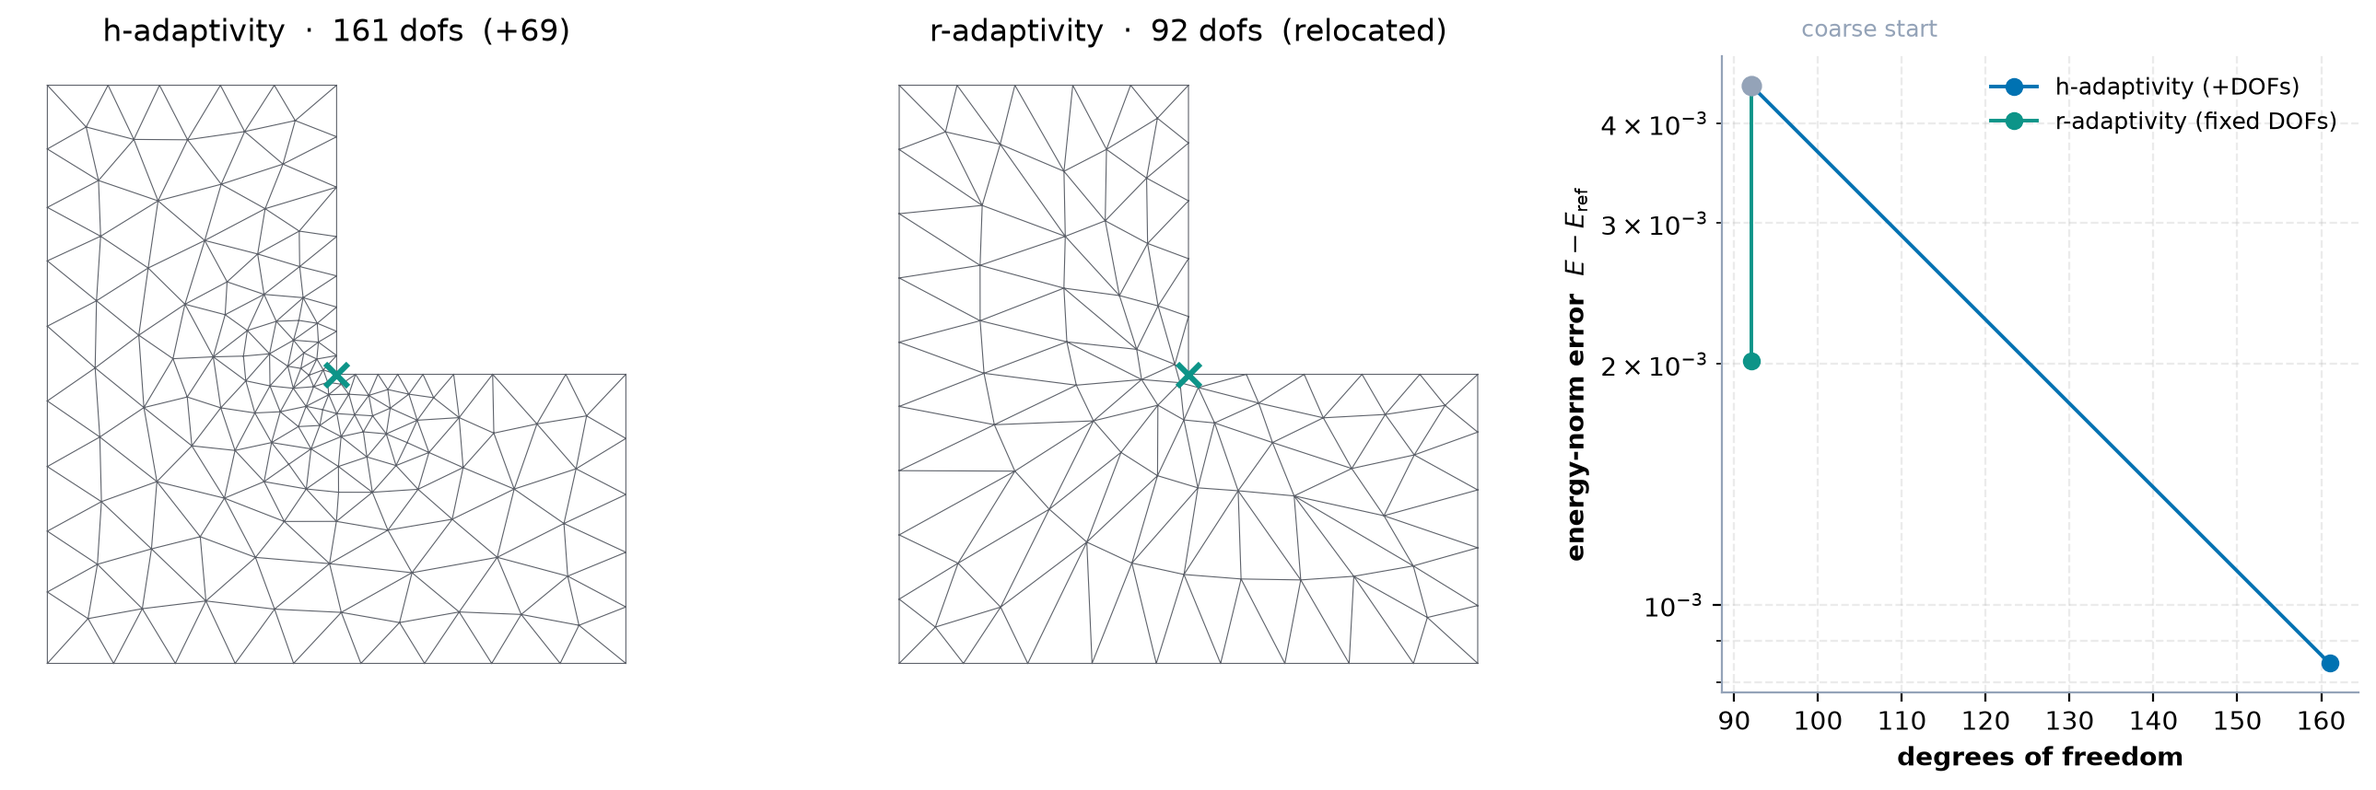
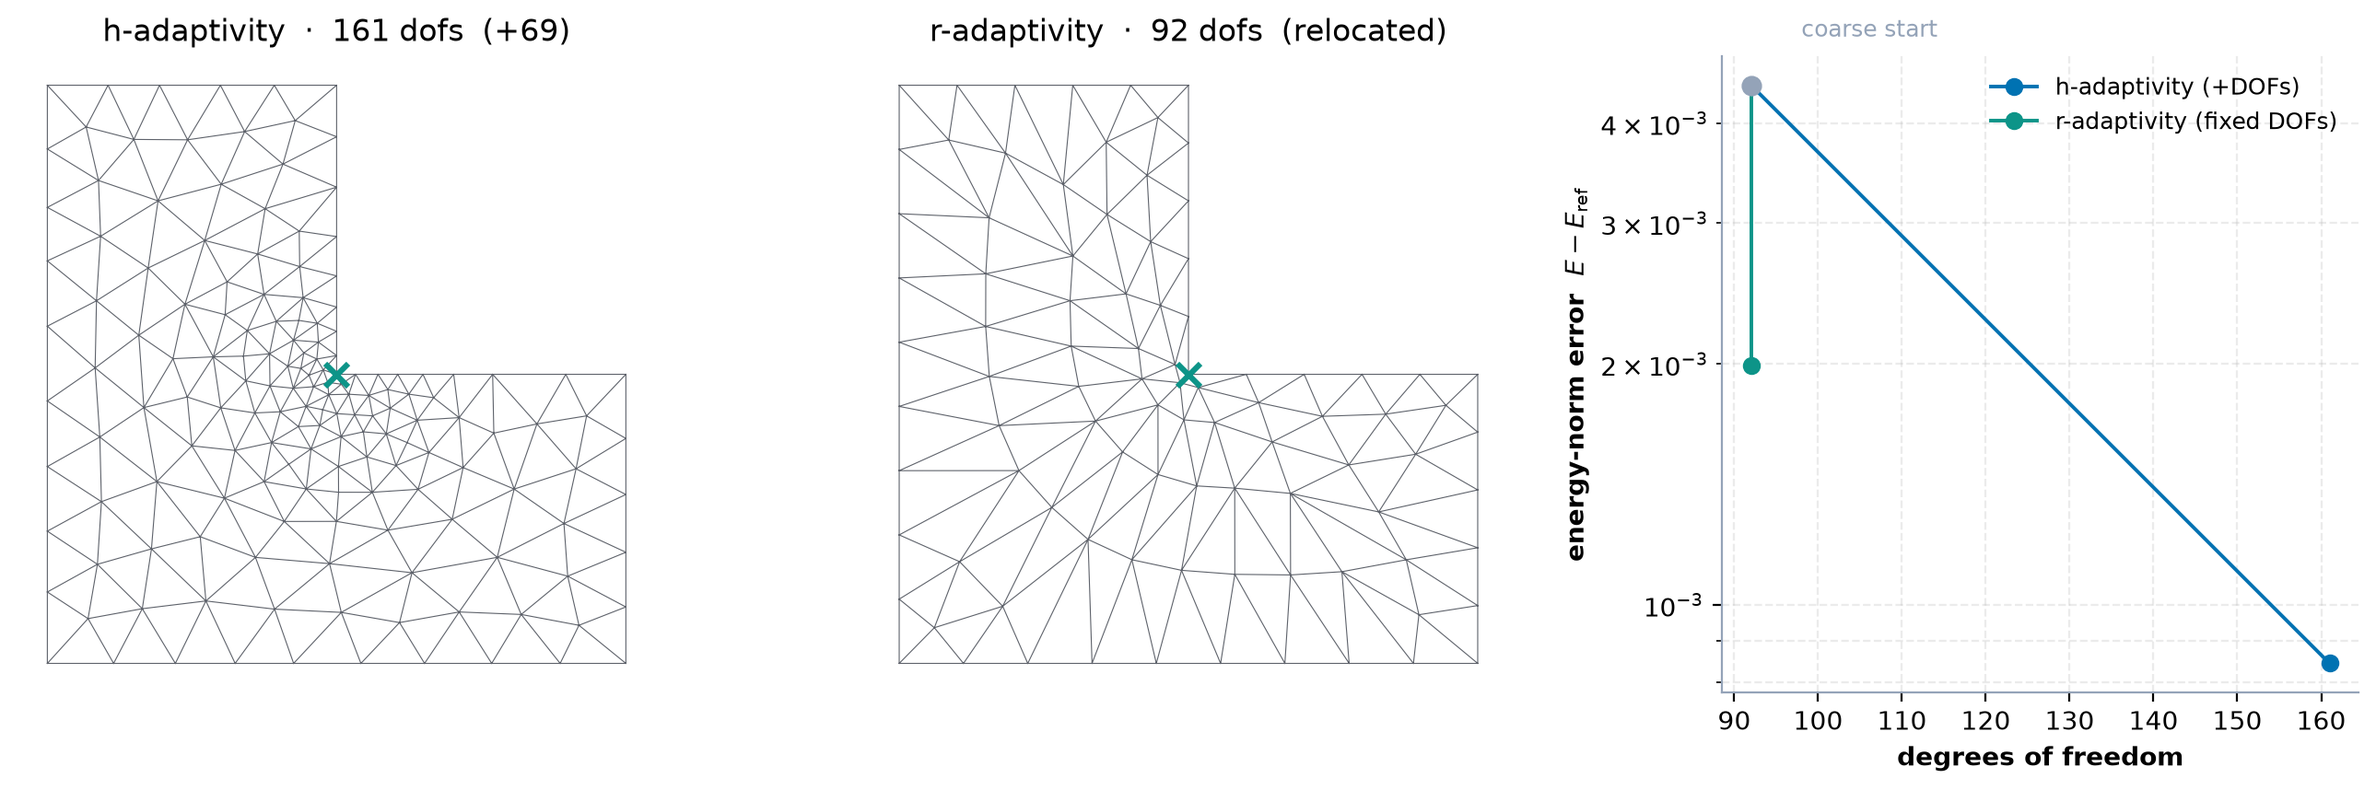
feat(fem): r-adaptivity via fem.solve(adapt=AdaptSpec(relocate=True))
Houses mesh relocation in the existing adapt= slot alongside h-refinement. AdaptSpec gains relocate=
(+ lr, quality_floor); run_adaptive_relocate descends a general Dirichlet-energy objective (Σ|∇u|²·vol,
dim-agnostic, scalar/vector) through the differentiable solve, with a backtracking detJ line search so
the fixed node set concentrates at features and the mesh never tangles — validity in the step control,
which a stock optimiser or an energy barrier alone cannot guarantee on a stiff problem (crux + adam/sgd/
ssbroyden + barrier all invert the L-shape corner; only backtracking is robust). Raises if relocate=True
with no .trainable() coordinate; mutates the domain to the relocated mesh and returns the solution there;
fails loud on nonlinear/transient/complex (planned extensions). The L-shape tutorial's hand-rolled loop
collapses to the one-liner. Tests: scalar + vector relocation reduce the energy at fixed DOF without
tangling, the no-coordinate error, and the nonlinear fail-loud guard.

Changed region(s): [[0.3722, 0.1212, 0.6204, 0.8182], [0.4653, 0.7576, 0.4963, 0.7879], [0.4033, 0.3939, 0.4343, 0.4242]]

diff --git a/jno/utils/solver/fem_adapt.py b/jno/utils/solver/fem_adapt.py
@@ -952,6 +952,19 @@ class AdaptSpec:
     hmax: float | None = None
     every: int = 5
     metric_field: int = 0
+    # --- r-adaptivity (mesh relocation) --------------------------------------------------------------
+    relocate: bool = False
+    """Switch ``FEM.solve(adapt=...)`` from h-refinement (add elements) to **r-adaptivity**: relocate the
+    mesh vertices tagged with :meth:`Variable.trainable` down the FE-energy gradient — *through the
+    differentiable solve* — at fixed connectivity and no new DOFs. Requires at least one coordinate tagged
+    ``domain.variable(region)[i].trainable()`` before ``jno.fem`` (else it raises). See
+    :func:`run_adaptive_relocate`. ``max_iters`` sets the number of relocation steps; ``lr`` the step size."""
+    quality_floor: float = 0.1
+    """Relocation only: a step is backtracked (halved) until no element's ``|det J|`` falls below this
+    fraction of the initial worst element — the mesh-validity line search that keeps the relocation from
+    tangling (a stock optimiser / a barrier alone cannot guarantee this on stiff problems)."""
+    lr: float = 3e-3
+    """Relocation only: base step size for the RMS-normalised energy-gradient descent."""
 
 
 # Consecutive rounds that must satisfy ``eps`` before the loop stops on convergence.
@@ -1072,6 +1085,137 @@ def run_adaptive_solve(fem: Any, spec: AdaptSpec, *, solve_fn: Any = None, **kwa
     fem.__dict__.update(cur.__dict__)
     fem.adapt_history = history
     return u
+
+
+def _dirichlet_energy_jax(pts, u_nodal, cells, dim):
+    """``Σ_cells |∇u|² · vol`` for a P1 field — differentiable in the vertices ``pts`` and the nodal values
+    ``u_nodal`` (shape ``(n_verts,)`` or ``(n_verts, n_comp)``). Field-agnostic (scalar / vector / a
+    primary field), 2-D triangle and 3-D tet: the relocation objective (concentrate nodes where the
+    solution's gradient is large). ``pts`` are the *moved* vertices, so this is the shape derivative's
+    integrand -- differentiating it w.r.t. the coordinate parameters is the r-adaptivity gradient."""
+    import jax.numpy as jnp
+
+    v = pts[cells]  # (n_cell, dim+1, dim)
+    u_nodal = u_nodal[:, None] if u_nodal.ndim == 1 else u_nodal
+    s = u_nodal[cells]  # (n_cell, dim+1, n_comp)
+    e = jnp.stack([v[:, i + 1] - v[:, 0] for i in range(dim)], axis=1)  # (n_cell, dim, dim): rows = edge vectors
+    du = jnp.stack([s[:, i + 1] - s[:, 0] for i in range(dim)], axis=1)  # (n_cell, dim, n_comp): du along each edge
+    grad = jnp.linalg.solve(e, du)  # (n_cell, dim, n_comp): ∇u, since du = E·∇u with E the edge matrix
+    vol = jnp.abs(jnp.linalg.det(e)) / (2.0 if dim == 2 else 6.0)
+    return jnp.sum(jnp.sum(grad**2, axis=(1, 2)) * vol)
+
+
+def run_adaptive_relocate(fem: Any, spec: AdaptSpec, *, solve_fn: Any = None, **kwargs: Any) -> np.ndarray:
+    """Drive ``FEM.solve(adapt=AdaptSpec(relocate=True, ...))`` -- **r-adaptivity** (mesh relocation).
+
+    Relocate the mesh vertices tagged with :meth:`Variable.trainable` down the FE Dirichlet-energy gradient
+    -- evaluated *through the differentiable solve* (``∂(solve)/∂X``) -- at **fixed connectivity** and no new
+    DOFs, with a **backtracking line search on ``det J``** so the mesh never tangles (a stock optimiser or a
+    barrier alone cannot guarantee validity on stiff problems -- the constraint must live in the step control).
+    Concentrates a *fixed* node set at solution features; the relocation companion of the h-refinement
+    :func:`run_adaptive_solve`.
+
+    ``spec.max_iters`` relocation steps, ``spec.lr`` step size, ``spec.quality_floor`` the validity bound.
+    Requires ≥1 coordinate tagged ``domain.variable(region)[i].trainable()`` before ``jno.fem`` (else raises).
+    Mutates ``fem`` / its domain to the relocated mesh (like the refinement loop) and returns the solution there;
+    ``fem.adapt_history`` traces the per-step energy.
+    """
+    import jax
+    import jax.numpy as jnp
+
+    import jno
+
+    from ..._fem import _infer_vec
+
+    dom = fem.domain
+    coord_specs = list(getattr(dom, "_trainable_coords", None) or [])
+    if not coord_specs:
+        raise ValueError(
+            "FEM.solve(adapt=AdaptSpec(relocate=True)) found no trainable mesh coordinates to move. Tag the "
+            "vertices to relocate with `x, y[, z] = domain.variable(region, split=True); x.trainable()` "
+            "(per component) BEFORE `jno.fem(...)` -- otherwise there is nothing to relocate."
+        )
+    mode = getattr(fem, "_mode", "linear")
+    if mode != "linear":
+        raise NotImplementedError(
+            f"AdaptSpec(relocate=True) currently supports steady *linear* problems (got mode={mode!r}); "
+            "nonlinear / transient / complex relocation are planned extensions (fail-loud until then)."
+        )
+
+    dim = int(dom.dimension)
+    cells, _ = _mesh_cells(dom)
+    cells_j = jnp.asarray(cells)
+    pts0 = np.asarray(dom.mesh.points)[:, :dim].copy()
+    pts0_j = jnp.asarray(pts0)
+    n_verts = pts0.shape[0]
+    vec0 = _infer_vec(fem._constraints) if getattr(fem, "_constraints", None) else 1
+    names = [sp["name"] for sp in coord_specs]
+
+    def _scatter(vals):
+        p = pts0_j
+        for sp in coord_specs:
+            p = p.at[jnp.asarray(sp["ids"]), sp["axis"]].set(vals[sp["name"]])
+        return p
+
+    def _energy(vals):
+        a_mat, b_vec = fem.operator.evaluate(vals)
+        u = jnp.linalg.solve(jnp.asarray(a_mat.todense()), jnp.asarray(b_vec).reshape(-1))
+        uf = u[: n_verts * vec0]
+        uf = uf.reshape(n_verts, vec0) if vec0 > 1 else uf
+        return _dirichlet_energy_jax(_scatter(vals), uf, cells_j, dim)
+
+    val_grad = jax.jit(jax.value_and_grad(lambda arrs: _energy(dict(zip(names, arrs)))))
+
+    def _min_detj(p):
+        vv = p[cells]
+        ee = np.stack([vv[:, i + 1] - vv[:, 0] for i in range(dim)], axis=1)
+        return float(np.min(np.linalg.det(ee.transpose(0, 2, 1))))
+
+    def _moved(arrs):
+        p = pts0.copy()
+        for i, sp in enumerate(coord_specs):
+            p[sp["ids"], sp["axis"]] = np.asarray(arrs[i])
+        return p
+
+    floor = spec.quality_floor * _min_detj(pts0)
+    arrs = [jnp.asarray(pts0[sp["ids"], sp["axis"]]) for sp in coord_specs]
+    msq = [jnp.zeros_like(a) for a in arrs]  # RMSProp running average (near-feature gradients dwarf the rest)
+    history: list[dict] = []
+    for it in range(spec.max_iters):
+        e, g = val_grad(arrs)
+        msq = [0.9 * m + 0.1 * gi**2 for m, gi in zip(msq, g)]
+        stepdir = [gi / jnp.sqrt(m + 1e-8) for gi, m in zip(g, msq)]
+        a = spec.lr
+        for _ in range(25):  # backtracking line search: shrink the step until no element inverts
+            cand = [ai - a * si for ai, si in zip(arrs, stepdir)]
+            if _min_detj(_moved(cand)) > floor:
+                break
+            a *= 0.5
+        else:
+            break  # at the mesh-quality limit -- no admissible step
+        arrs = cand
+        history.append({"step": it, "energy": float(e)})
+
+    final = _moved(arrs)
+    if _min_detj(final) <= 0.0:  # fail loud rather than hand back / re-solve on a tangled mesh
+        raise RuntimeError(
+            "FEM.solve(adapt=relocate): the mesh tangled (min det J <= 0). Lower AdaptSpec.lr or raise "
+            "AdaptSpec.quality_floor."
+        )
+
+    # apply the relocation to the domain (connectivity-preserving), drop the trainable tags, re-solve plainly
+    disp = np.zeros((n_verts, dim))
+    for i, sp in enumerate(coord_specs):
+        disp[sp["ids"], sp["axis"]] = np.asarray(arrs[i]) - pts0[sp["ids"], sp["axis"]]
+    move_mesh(dom, disp, copy=False, check=True)
+    dom._trainable_coords = []  # relocation consumed the tags; the moved vertices are now the geometry
+    for _name, _pred in list(getattr(dom, "_tag_predicates", {}).items()):
+        dom.tag(_name, _pred)
+    cur = jno.fem(fem._constraints, **fem._fem_kwargs)
+    u_final = np.asarray(cur.solve(solve_fn, **kwargs)).reshape(-1)
+    fem.__dict__.update(cur.__dict__)
+    fem.adapt_history = history
+    return u_final
 
 
 @dataclass

diff --git a/docs/tutorial_examples/08_fem_and_varpinns/adaptive_l_shape.py b/docs/tutorial_examples/08_fem_and_varpinns/adaptive_l_shape.py
@@ -108,73 +108,6 @@ def _min_detj(pts, cells):
     return float(np.min(a[:, 0] * b[:, 1] - a[:, 1] * b[:, 0]))
 
 
-def relocate(fem, d, e_ref, n_steps=60, lr=3e-3):
-    """Descend the FE-energy gradient to relocate the trainable interior vertices (differentiable r-adaptivity).
-
-    The built-in, general part is one line — ``jax.value_and_grad(energy)`` — exact only because
-    ``.trainable()`` made ``fem.solve()`` differentiable in the mesh. The rest is a compact optimiser with
-    the one ingredient a plain optimiser (``jno.core`` / adam) lacks here: **mesh-validity control**. Each
-    step takes a per-node RMS-normalised descent direction, then a *backtracking line search* halves the
-    step until no element is inverted — so the mesh never tangles.
-
-    NOTE — why backtracking and not just ``jno.core([energy + λ·barrier]).solve()``: on a *stiff* problem
-    like this reentrant corner the near-corner gradients are enormous, so a fixed-step optimiser (adam/sgd)
-    overshoots ``detJ = 0`` before a ``detJ`` log-barrier can react — the mesh inverts and the loss goes
-    ``nan``. A barrier needs a line search to be safe, and crux's optimisers do none; backtracking *checks*
-    validity every step, so it is robust. (A barrier alone is fine for milder relocation / co-design, where
-    the validity constraint is not binding — and ``.trainable()`` + the exact gradient is what lets a learned
-    monitor be trained through this via ``jno.core``, the ML path.) Fails loud if the mesh cannot stay valid.
-    """
-    cells = np.asarray(d.mesh.cells_dict["triangle"])
-    cj = jnp.asarray(cells)
-    pts0 = np.asarray(d.mesh.points)[:, :2].copy()
-    pts0_j = jnp.asarray(pts0)
-    (sx, sy) = (d._trainable_coords[0], d._trainable_coords[1])
-    ids, nx, ny = sx["ids"], sx["name"], sy["name"]
-
-    def energy(xy):
-        A, b = fem.operator.evaluate({nx: xy[0], ny: xy[1]})
-        u = jnp.linalg.solve(jnp.asarray(A.todense()), jnp.asarray(b).reshape(-1))
-        pts = pts0_j.at[ids, 0].set(xy[0]).at[ids, 1].set(xy[1])
-        return dirichlet_energy(pts, u, cj)
-
-    val_grad = jax.jit(jax.value_and_grad(energy))
-    floor = 0.1 * _min_detj(pts0, cells)  # never let any cell fall below 10% of the initial worst quality
-
-    def moved(xy):
-        p = pts0.copy()
-        p[ids, 0], p[ids, 1] = np.asarray(xy[0]), np.asarray(xy[1])
-        return p
-
-    xy = (pts0_j[ids, 0], pts0_j[ids, 1])
-    msq = (jnp.zeros_like(xy[0]), jnp.zeros_like(xy[1]))  # RMSProp running average of squared gradient
-    hist = [float(energy(xy)) - e_ref]
-    for _ in range(n_steps):
-        e, g = val_grad(xy)
-        msq = (0.9 * msq[0] + 0.1 * g[0] ** 2, 0.9 * msq[1] + 0.1 * g[1] ** 2)
-        step = (g[0] / jnp.sqrt(msq[0] + 1e-8), g[1] / jnp.sqrt(msq[1] + 1e-8))
-        a = lr
-        for _ in range(20):  # backtracking on mesh validity
-            cand = (xy[0] - a * step[0], xy[1] - a * step[1])
-            if _min_detj(moved(cand), cells) > floor:
-                break
-            a *= 0.5
-        else:
-            break  # no admissible step -> at the mesh-quality limit
-        xy = cand
-        hist.append(float(e) - e_ref)
-    # fail-loud tangle guard: never hand back an inverted mesh (a silent tangle would give nan solves later)
-    result = moved(xy)
-    if _min_detj(result, cells) <= 0.0:
-        raise RuntimeError(
-            "relocate: the mesh tangled — an element inverted (min detJ <= 0). Lower `lr`, raise the quality "
-            "floor, or take fewer steps; the coordinate gradient is exact but the optimiser must stay valid."
-        )
-    if len(hist) == 1:
-        raise RuntimeError("relocate: could not take a single valid step from the start mesh (lr too large?).")
-    return result, np.array(hist)
-
-
 # --- reference energy (fine mesh) and a common coarse starting mesh ---------------------------------------
 d_ref, fem_ref = build(0.03)
 E_REF = float(
@@ -198,14 +131,18 @@ pts_h, tris_h = np.asarray(d_h.mesh.points)[:, :2], np.asarray(d_h.mesh.cells_di
 E_h = float(dirichlet_energy(jnp.asarray(pts_h), jnp.asarray(sol_h), jnp.asarray(tris_h)))
 n_h = len(sol_h)
 
-# --- (2) r-adaptivity: `.trainable()` coordinates + the differentiable solve ------------------------------
-# `build(movable=True)` calls `xm.trainable()` / `ym.trainable()` on the interior coordinates (see build()),
-# so `fem_r.solve()` is now differentiable w.r.t. the mesh. The exact shape gradient ∂E/∂X is therefore just
-# `jax.grad` — no adjoint code — and `relocate` simply descends it (no new DOFs, fixed connectivity).
+# --- (2) r-adaptivity: the built-in relocation driver, ONE call -------------------------------------------
+# `build(movable=True)` tags the interior vertices with `.trainable()` (see build()), so the r-adaptivity API
+# is the SAME slot as h-adaptivity: `fem.solve(adapt=AdaptSpec(relocate=True))`. Internally it descends the
+# FE energy *through the differentiable solve* (∂E/∂X, exact) with a **backtracking mesh-validity line search**
+# — so the fixed node set concentrates at the corner and the mesh never tangles (validity lives in the step
+# control, which a stock optimiser / barrier can't guarantee on a stiff problem). It returns the solution on
+# the relocated mesh; `d_r`/`fem_r` now refer to it. Raises if no coordinate was `.trainable()`-tagged.
 d_r, fem_r = build(0.12, movable=True)
-pts_r, hist_r = relocate(fem_r, d_r, E_REF)
+sol_r = np.asarray(fem_r.solve(adapt=AdaptSpec(relocate=True, max_iters=60, lr=3e-3, quality_floor=0.1))).reshape(-1)
+pts_r = np.asarray(d_r.mesh.points)[:, :2]
 tris_r = np.asarray(d_r.mesh.cells_dict["triangle"])
-E_r = float(hist_r[-1] + E_REF)
+E_r = float(dirichlet_energy(jnp.asarray(pts_r), jnp.asarray(sol_r), jnp.asarray(tris_r)))
 
 print(f"energy-norm error  (E - E_ref),  E_ref = {E_REF:.4f}")
 print(f"  coarse start   : {E0 - E_REF:.3e}   ({n0} dofs)")

diff --git a/tests/test_fem_relocate.py b/tests/test_fem_relocate.py
@@ -1,0 +1,106 @@
+"""r-adaptivity via the adapt slot — ``FEM.solve(adapt=AdaptSpec(relocate=True))``.
+
+Relocates the mesh vertices tagged with :meth:`Variable.trainable` down the FE-energy gradient (through the
+differentiable solve) with a backtracking mesh-validity line search — the built-in companion of h-refinement
+(``run_adaptive_relocate``). Checks: it reduces the objective at **fixed DOF** without tangling (scalar +
+vector), demands at least one ``.trainable()`` coordinate, and fails loud on the not-yet-supported modes.
+"""
+
+import jax
+import numpy as np
+import pytest
+
+import jno
+import jno.jnp_ops as J
+from jno.utils.solver.fem_adapt import AdaptSpec
+
+
+@pytest.fixture(autouse=True)
+def _x64():
+    prev = jax.config.jax_enable_x64
+    jax.config.update("jax_enable_x64", True)
+    try:
+        yield
+    finally:
+        jax.config.update("jax_enable_x64", prev)
+
+
+def _min_detj(pts, cells):
+    v = pts[cells]
+    a, b = v[:, 1] - v[:, 0], v[:, 2] - v[:, 0]
+    return float(np.min(a[:, 0] * b[:, 1] - a[:, 1] * b[:, 0]))
+
+
+def _peak_scalar(size=0.14, movable=True):
+    """Poisson with a sharp off-center peak source; interior nodes (a central box) tagged trainable."""
+    d = jno.Shape.rect(0.0, 0.0, 1.0, 1.0, size=size).domain()
+    u, phi = d.fem_symbols()
+    xi, yi, _ = d.variable("interior", split=True)
+    xb, yb, _ = d.variable("boundary", split=True)
+    if movable:
+        xm, ym, _ = d.variable("mov", where=lambda x, y: (x > 0.2) & (x < 0.8) & (y > 0.2) & (y < 0.8), split=True)
+        xm.trainable(name="ix")
+        ym.trainable(name="iy")
+    ui, vi = u.bind(x=xi, y=yi), phi.bind(x=xi, y=yi)
+    f = J.exp(-40.0 * ((xi - 0.62) ** 2 + (yi - 0.35) ** 2))
+    return d, jno.fem([ui.x * vi.x + ui.y * vi.y - f * vi, u(xb, yb) - 0.0], quad_degree=3)
+
+
+def test_relocate_reduces_energy_and_stays_valid():
+    d, fem = _peak_scalar()
+    pts0 = np.asarray(d.mesh.points)[:, :2].copy()
+    n0 = len(pts0)
+    sol = np.asarray(fem.solve(adapt=AdaptSpec(relocate=True, max_iters=40, lr=3e-3, quality_floor=0.1))).reshape(-1)
+    hist = fem.adapt_history
+    cells = np.asarray(fem.domain.mesh.cells_dict["triangle"])
+    pts_r = np.asarray(fem.domain.mesh.points)[:, :2]
+
+    assert len(hist) >= 5, "relocation should take several steps"
+    assert hist[-1]["energy"] < hist[0]["energy"], "relocation must reduce the FE energy"
+    assert len(pts_r) == n0 and sol.shape[0] == n0, "r-adaptivity adds no DOFs (fixed connectivity)"
+    assert _min_detj(pts_r, cells) > 0.0, "the relocated mesh must stay valid (no inverted elements)"
+    assert np.linalg.norm(pts_r - pts0) > 1e-3, "the interior vertices should actually move toward the feature"
+
+
+def test_relocate_requires_trainable_coordinates():
+    _, fem = _peak_scalar(movable=False)
+    with pytest.raises(ValueError, match="no trainable mesh coordinates"):
+        fem.solve(adapt=AdaptSpec(relocate=True))
+
+
+def test_relocate_vector_field():
+    """Generality: a vector problem relocates too (the energy objective sums over components)."""
+    d = jno.Shape.rect(0.0, 0.0, 1.0, 1.0, size=0.16).domain()
+    u, phi = d.fem_symbols(value_shape=(2,))
+    xi, yi, _ = d.variable("interior", split=True)
+    xb, yb, _ = d.variable("boundary", split=True)
+    xm, ym, _ = d.variable("mov", where=lambda x, y: (x > 0.2) & (x < 0.8) & (y > 0.2) & (y < 0.8), split=True)
+    xm.trainable(name="ix")
+    ym.trainable(name="iy")
+    vi = phi.bind(x=xi, y=yi)
+    f = 2.0 * (xi * (1 - xi) + yi * (1 - yi))
+    weak = jno.np.inner(jno.np.grad(u, [xi, yi]), jno.np.grad(phi, [xi, yi]), n_contract=2) - (
+        f * vi.component(0) + 0.5 * f * vi.component(1)
+    )
+    fem = jno.fem([weak, u(xb, yb) - 0.0])
+    n0 = len(d.mesh.points)
+    sol = np.asarray(fem.solve(adapt=AdaptSpec(relocate=True, max_iters=25, lr=2e-3))).reshape(-1)
+    cells = np.asarray(fem.domain.mesh.cells_dict["triangle"])
+    assert fem.adapt_history[-1]["energy"] <= fem.adapt_history[0]["energy"], "vector relocation should not raise energy"
+    assert _min_detj(np.asarray(fem.domain.mesh.points)[:, :2], cells) > 0.0, "vector relocation must stay valid"
+    assert sol.shape[0] == 2 * n0, "vector solution has 2 DOFs per node, unchanged by relocation"
+
+
+def test_relocate_fails_loud_on_nonlinear():
+    """Scope guard: nonlinear / transient / complex relocation is a planned extension and must fail loud."""
+    d = jno.Shape.rect(0.0, 0.0, 1.0, 1.0, size=0.25).domain()
+    u, phi = d.fem_symbols()
+    xi, yi, _ = d.variable("interior", split=True)
+    xb, yb, _ = d.variable("boundary", split=True)
+    xm, ym, _ = d.variable("mov", where=lambda x, y: (x > 0.2) & (x < 0.8) & (y > 0.2) & (y < 0.8), split=True)
+    xm.trainable(name="ix")
+    ym.trainable(name="iy")
+    ui, vi = u.bind(x=xi, y=yi), phi.bind(x=xi, y=yi)
+    fem = jno.fem([ui.x * vi.x + ui.y * vi.y + ui * ui * vi - vi, u(xb, yb) - 0.0])  # u² -> nonlinear
+    with pytest.raises(NotImplementedError, match="steady"):
+        fem.solve(adapt=AdaptSpec(relocate=True))

diff --git a/jno/_fem.py b/jno/_fem.py
@@ -1300,6 +1300,11 @@ class FEM:
 
             return run_moving_boundary(self, move, solve_fn=solve_fn, **kwargs)
         if adapt is not None:
+            if getattr(adapt, "relocate", False):
+                # r-adaptivity: relocate the .trainable() vertices (fixed connectivity), not h-refinement.
+                from .utils.solver.fem_adapt import run_adaptive_relocate
+
+                return run_adaptive_relocate(self, adapt, solve_fn=solve_fn, **kwargs)
             # x0= (warm start) and time= do not compose with a remesh — the DOF layout changes across it,
             # staling a warm start and any cached step operator. The nonlinear=/linear=/precond= slots DO
             # compose: they configure the per-step (Newton / theta) solve, which is layout-independent —

diff --git a/docs/fem.md b/docs/fem.md
@@ -337,6 +337,22 @@ the boundary-facet normals** all become differentiable in the node positions. Sc
 *relocation*, not remeshing (h-remeshing stays the non-differentiable outer AFEM loop); it is differentiable
 on valid meshes, with element inversion (tangling) the boundary of that regime.
 
+**r-adaptivity in one call.** Tagging coordinates `.trainable()` and driving the relocation yourself is the
+low-level path; the packaged form reuses the **same `adapt=` slot** as h-refinement:
+
+```python
+xm, ym, _ = domain.variable("core", where=interior, split=True)
+xm.trainable(); ym.trainable()                              # BEFORE jno.fem(...)
+u = fem.solve(adapt=jno.AdaptSpec(relocate=True, max_iters=60))
+```
+
+`AdaptSpec(relocate=True)` descends the FE energy through the differentiable solve with a **backtracking
+`det J` line search** — so the fixed node set concentrates at solution features and the mesh never tangles
+(the validity constraint lives in the step control; a stock optimiser or an energy barrier alone cannot
+guarantee it on a stiff problem — see `run_adaptive_relocate`). It mutates the domain to the relocated mesh,
+returns the solution there, and **raises** if no coordinate was tagged. Scope today: steady scalar/vector;
+nonlinear / transient / complex relocation fail loud (planned extensions).
+
 ---
 
 ## Per-region (sub-domain) integration
